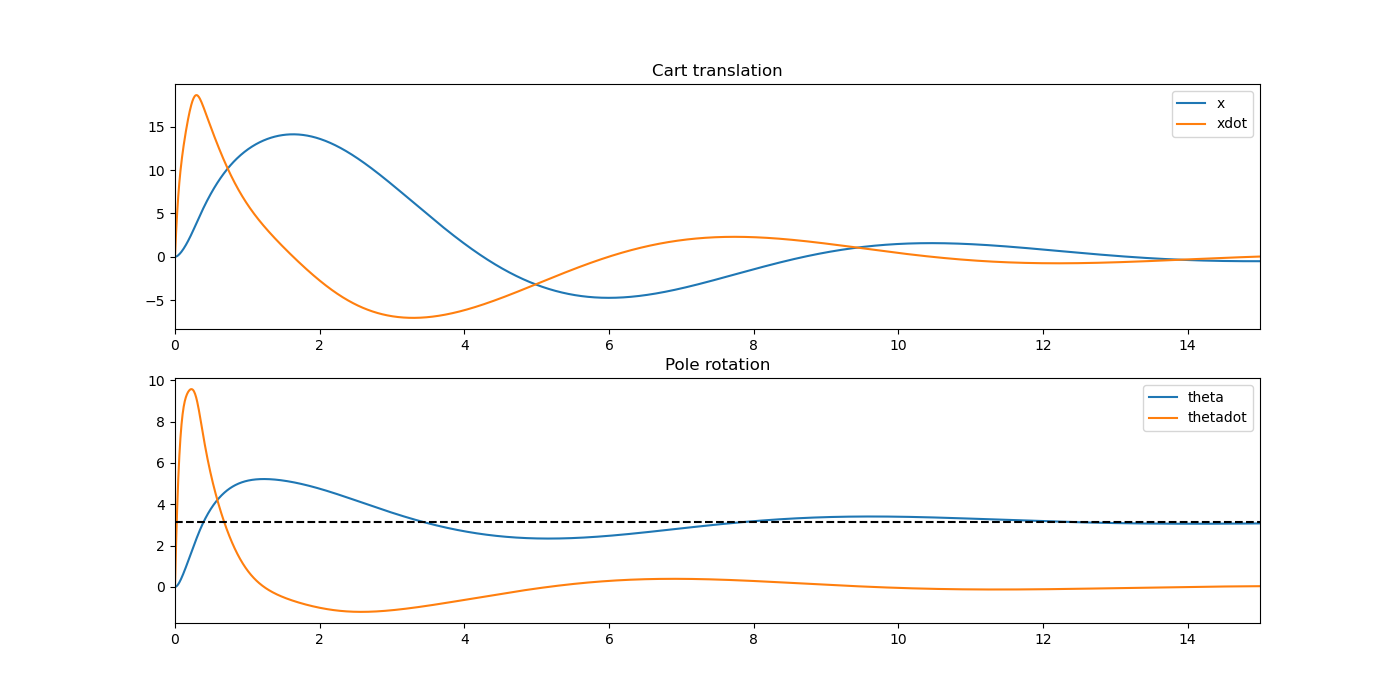
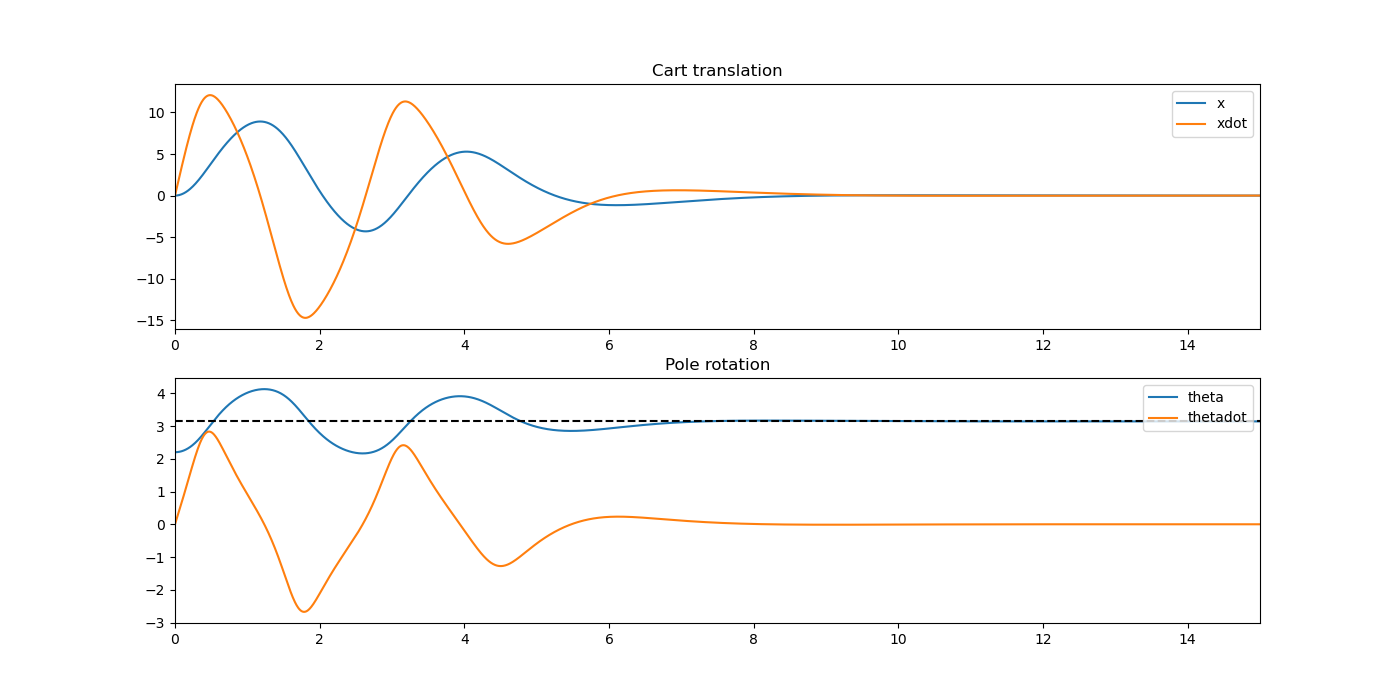
tut3-final

diff --git a/_pages/tut3.md b/_pages/tut3.md
@@ -5,9 +5,9 @@ categories: jekyll update
 mathjax: true
 permalink: /tut3/
 ---
-## Cart-Pole Modeling and LQR using MATLAB or Python
+## Cart-Pole with MATLAB and Python
 This post will share how to model a cart-pole and simulate the dynamics using `MATLAB`.
-The goal is to first do this in `MATLAB` and later to do the same steps using `Python` and also to do the animation using `Blender`.
+The goal is to first do this in `MATLAB` and later to do the same steps using `Python`.
 
 ### Mathematical Model
 The system consists of a frictionless cart and a pendulum fixed to the centroid of the cart body.   
@@ -55,31 +55,36 @@ m_2\ell^2\ddot{\theta} + m_2\ell\ddot{x}\cos(\theta) &= -m_2g\ell\sin(\theta)\en
 
 In matrix form:
 
-$$\begin{bmatrix}m_1+m_2&m_2\ell\cos(\theta)\\m_2\ell\cos(\theta)&m_2\ell^2\end{bmatrix}\begin{bmatrix}\ddot{x}\\\ddot{\theta}\end{bmatrix}=\begin{bmatrix}F\\0\end{bmatrix}+\begin{bmatrix}m_2\ell\dot{\theta}^2\sin(\theta)\\-m_2g\ell\sin(\theta)\end{bmatrix}$$
+$$\begin{bmatrix}m_1+m_2&m_2\ell\cos(\theta)\\m_2\ell\cos(\theta)&m_2\ell^2\end{bmatrix}\begin{bmatrix}\ddot{x}\\\ddot{\theta}\end{bmatrix}=\begin{bmatrix}F\\0\end{bmatrix}+\begin{bmatrix}m_2\ell\dot{\theta}^2\sin(\theta)\\-m_2g\ell\sin(\theta)\end{bmatrix}\hspace{1cm}\text{or}\hspace{1cm}\mathbf{M}\begin{bmatrix}\ddot{x}\\\ddot{\theta}\end{bmatrix}=\mathbf{u}+\mathbf{v}$$
 
-Finally, we want a system of the form $$\dot{\mathbf{x}}=\mathbf{f}(\mathbf{x},\mathbf{u})$$ where $$\mathbf{x}$$ is a state vector, $$\mathbf{f}$$ is some nonlinear vector function and $$\mathbf{u}$$ is the input for our system. In this regard, we let $$\mathbf{x}=\begin{bmatrix}x&\theta & \dot{x}&\dot{\theta}\end{bmatrix}^T$$ and $$\mathbf{u}=\begin{bmatrix}F&0\end{bmatrix}^T$$. The system can then be written as
+Finally, we want a system of the form $$\dot{\mathbf{x}}=\mathbf{f}(\mathbf{x},F)$$ where $$\mathbf{x}$$ is a state vector, $$\mathbf{f}$$ is some nonlinear vector function and $$F$$ is the force-input for our system. The system can then be written as
 
-$$\dot{\mathbf{x}}=\begin{bmatrix}\dot{x}\\\dot{\theta}\\\mathbf{M}^{-1}(\mathbf{u}+\mathbf{v})\end{bmatrix}$$
+$$\dot{\mathbf{x}}=\mathbf{f}(\mathbf{x},F)=\begin{bmatrix}\dot{x}\\\dot{\theta}\\\mathbf{M}^{-1}(\mathbf{u}+\mathbf{v})\end{bmatrix}, \hspace{1cm}\mathbf{x}=\begin{bmatrix}x\\\theta\\\dot{x}\\\dot{\theta}\end{bmatrix},\hspace{1cm}\mathbf{u}=\begin{bmatrix}F\\0\end{bmatrix}$$
 
 ### Linearization and State-Feedback
 To employ LQR in feedback control, we need a linear system $$\dot{\mathbf{x}}=\mathbf{A}\mathbf{x}+\mathbf{B}\mathbf{u}$$.
-We linearize about the unstable fixed point $$\mathbf{x}_e=\begin{bmatrix}x&\pi&0&0\end{bmatrix}^T$$ and $$\mathbf{u}_e=\mathbf{0}$$. 
-The matrices $$\mathbf{A}$$ and $$\mathbf{B}$$ can be determined analytically by
+We linearize about the unstable fixed point and denote the equilibrium points as $$\mathbf{x}_e$$ and $$F_e$$. 
+The matrices $$\mathbf{A}$$ and $$\mathbf{B}$$ can be determined analytically by evaluating the *Jacobian* at the fixed point:
 
-$$\mathbf{A}=\frac{\partial\mathbf{f}}{\partial\mathbf{x}}\Biggr\rvert_{\mathbf{x}=\mathbf{x}_e, \mathbf{u}=\mathbf{u}_e}, 
-\hspace{1cm}\mathbf{B}=\frac{\partial \mathbf{f}}{\partial\mathbf{u}}\Biggr\rvert_{\mathbf{x}=\mathbf{x}_e,\mathbf{u}=\mathbf{u}_e}$$
+$$\mathbf{A}=\frac{\partial\mathbf{f}}{\partial\mathbf{x}}\Biggr\rvert_{\mathbf{x}=\mathbf{x}_e, \ F=F_e}, 
+\hspace{1cm}\mathbf{B}=\frac{\partial \mathbf{f}}{\partial F}\Biggr\rvert_{\mathbf{x}=\mathbf{x}_e,\ F=F_e}, \hspace{1cm}
+\mathbf{x}_e=\begin{bmatrix}x\\\pi\\0\\0\end{bmatrix},\hspace{1cm}F_e=0$$
 
-However, this requires us to solve the matrix equation of motion algebraically for $$\ddot{x}$$ and $$\ddot{\theta}$$, typically using Cramer's rule.
-To avoid that we use the symbolic toolbox of MATLAB. The following section shows MATLAB code to simulate the nonlinear system.
-Also, we linearize the system using the `jacobian()` function of the symbolic toolbox in MATLAB, 
-hence finding the matrices $$\mathbf{A}$$ and $$\mathbf{B}$$ which are required for state-feedback control.
+Calculating the *Jacobian* requires us to first solve the matrix equation of motion algebraically for $$\ddot{x}$$ and $$\ddot{\theta}$$, typically using
+*Cramer's rule*. This is ok for this system, but for systems involving more than two state variables, hand-written calculations are errorprone and quickly
+become a mess. Therefore, we show how to use the symbolic toolbox of MATLAB to do the work for us. 
+
+In the following section, we linearize the system using the `jacobian()` function of the symbolic toolbox in MATLAB, 
+hence finding the matrices $$\mathbf{A}$$ and $$\mathbf{B}$$ which are required for LQR. We then use state-feedback control to stabilize the
+payload near the unstable fixed point.
+
 ### Equations of motion and Animation
 The following code-snippet shows how to specify the nonlinear equations of motion in a form that MATLAB's `ode` suite will accept the function.
 There are two functions in this snippet: one for the cart-pole model and one for animation. 
 **Note that you should place these in the bottom of the script**.
 {% highlight MATLAB %}
 %% Equations of motion in MATLAB ODE's notation
-function xxdot = model(t, xx, u, params)
+function xxdot = model(t, xx, F, params)
     % States
     x = xx(1);
     theta = xx(2);
@@ -92,6 +97,7 @@ function xxdot = model(t, xx, u, params)
     g = params.g;
     % Model
     M = [m1 + m2, m2*L*cos(theta); m2*L*cos(theta), m2*L^2];
+    u = [F; 0];
     v = [m2*thetadot^2*sin(theta); -m2*g*L*sin(theta)];
     xxdot = [xdot; thetadot; M \ (u + v)];
 end
@@ -118,24 +124,25 @@ params.m1 = 5;
 params.m2 = 2;
 params.L = 2;
 params.g = 9.81;
-% Input vector (e.g. feedback control vector)
-u = [0;0];
+% Cart force
+F = 0;
 % Simulation settings
 tspan = linspace(0,15,5000);
 xx0 = [0; pi/2; 0; 0];
-[t, xx] = ode45(@(t,xx) model(t, xx, u, params), tspan, xx0);
+[t, xx] = ode45(@(t,xx) model(t, xx, F, params), tspan, xx0);
 
 %% Plot results and animate
 fig1 = figure(1);
+fig1.Position = [210, 230, 1080, 540]
 subplot(211);
-p1 = plot(t,xx(:, [1,3]));
+p1 = plotyy(t, xx(:, 1), t, xx(:, 3));
 title('Cart translation');
 legend('x', 'xdot');
 subplot(212);
-p2 = plot(t, xx(:, [2,4]));
+p2 = plotyy(t, xx(:, 2), t, xx(:, 4));
 title('Pole rotation');
 legend('theta', 'thetadot');
-% Animate
+% Animation
 fig3 = figure(3);
 for i = 1:numel(t)
     if mod(i,10) == 0
@@ -158,33 +165,40 @@ Recall that our problem is to apply a force on the cart such that the cart moves
 xsym = sym('x', [4,1]);
 Fsym = sym('F');
 tsym = sym('t');
-usym = [Fsym; 0];
-A = jacobian(model(tsym, xsym, usym, params), xsym);
-B = jacobian(model(tsym, xsym, usym, params), Fsym);
+A = jacobian(model(tsym, xsym, Fsym, params), xsym);
+B = jacobian(model(tsym, xsym, Fsym, params), Fsym);
 A = double(subs(A, xsym, [xsym(1); pi; 0; 0]));
 B = double(subs(B, xsym, [xsym(1); pi; 0; 0]));
-clear xsym Fsym tsym usym
+clear xsym Fsym tsym
 
 %% State feedback control with LQR
-Q = diag([500,50,1,1]);
-R = 0.1;
+Q = diag([100,100,1,1]);
+R = 1;
 K = lqr(A,B,Q,R);
 % Stabilize about the (unstable) fixed-point [0; pi; 0; 0]
-u = @(xx) - K * (xx - [0; pi; 0; 0]); 
-xx0 = [0;0;0;0];
-[t,xx] = ode45(@(t,xx) model(t, xx, u(xx), params), tspan, xx0);
+F = @(xx) - K * (xx - [0; pi; 0; 0]); 
+xx0 = [0, 2.2, 0, 0].';
+[t,xx] = ode45(@(t,xx) model(t, xx, F(xx), params), tspan, xx0);
 
 %% Plot results and animate
 fig2 = figure(2);
-subplot(211);
-p1 = plotyy(t,xx(:, 1), t, xx(:,3));
-title('Cart translation');
-legend('x', 'xdot');
-subplot(212);
-p2 = plotyy(t, xx(:,2), t, xx(:,4));
-title('Pole rotation');
-legend('theta', 'thetadot');
+subplot(221);
+p1 = plot(t,xx(:, 1));
+axis tight
+title('Cart position');
+subplot(223);
+p2 = plot(t, xx(:, 3));
+axis tight
+title('Cart velocity')
+subplot(222)
+p3 = plot(t, xx(:,2));
 line([0,15],[pi,pi],'linestyle','--','color','black')
+axis tight
+title('Pole angle');
+subplot(224)
+p4 = plot(t, xx(:,4))
+axis tight
+title('Pole velocity')
 % Animate
 fig4 = figure(4);
 for i = 1:numel(t)
@@ -198,13 +212,12 @@ for i = 1:numel(t)
     end
 end
 
-
 {% endhighlight %}
 
 ![cart-pole-plot2]({{site.baseurl}}/images/cart-pole-plot2.jpg)
 Recall that the system is underactuated. I.e. can only reach the uncontrollable state $$\theta$$ indirectly via the cart-force $$F$$.
 The cart accelerates to the right, overshooting the desired payload angle, and comes back to stabilize it at $$\theta=\pi$$ near the desired cart-position.
-Note that the figures above have two vertical axes, with position along the left axis and velocity along the right.
+The figure with the pendulum angle includes a dashed line showing $$\pi$$.
 
 ### Python Code
 This section shows `Python` code to do the same steps. In the first part of the code, we import required libraries and define three functions:
@@ -229,17 +242,18 @@ import control.matlab as cm
 
 plt.close('all')
 
-def openLoop(xx, t,  u, m1, m2, L, g):
+def openLoop(xx, t, F, m1, m2, L, g):
     x,theta,xdot,thetadot = xx
     M = np.array([[m1+m2, m2*L*np.cos(theta)],[m2*L*np.cos(theta), m2*L**2]])
+    u = np.array([[F],[0]])
     v = np.array([[m2*thetadot**2*np.sin(theta)],[-m2*g*L*np.sin(theta)]])
     temp = np.linalg.inv(M) @ (u + v)
-    xxdot = [xdot, thetadot, temp[0,0], temp[1,0]]
-    return xxdot
+    return [xdot, thetadot, temp[0,0], temp[1,0]]
 
-def modelSym(xx, t, u, m1, m2, L, g):
+def modelSym(xx, t, F, m1, m2, L, g):
     x,theta,xdot,thetadot = xx
     M = sm.Matrix([[m1+m2, m2*L*sm.cos(theta)], [m2*L*sm.cos(theta), m2*L**2]])
+    u = sm.Matrix([F,0])
     v = sm.Matrix([m2*thetadot**2*sm.sin(theta), -m2*g*L*sm.sin(theta)])
     temp = M.inv() @ (u+v)
     return sm.Matrix([xdot, thetadot, temp[0,0], temp[1,0]])
@@ -248,20 +262,20 @@ def closedLoop(xx, t, m1, m2, L, g):
     x,theta,xdot,thetadot = xx
     M = np.array([[m1+m2, m2*L*np.cos(theta)],[m2*L*np.cos(theta), m2*L**2]])
     v = np.array([[m2*thetadot**2*np.sin(theta)],[-m2*g*L*np.sin(theta)]])
-    u = - (K @ (xx - [0, np.pi, 0, 0])).T
+    F = -(K @ (xx - [0, np.pi, 0, 0]))[0,0]
+    u = np.array([[F],[0]])
     temp = np.linalg.inv(M) @ (u + v)
-    xxdot = [xdot, thetadot, temp[0,0], temp[1,0]]
-    return xxdot
+    return [xdot, thetadot, temp[0,0], temp[1,0]]
 {% endhighlight %}
 
 ### Open-loop testing
 To test the model in open-loop, we do the same as before i.e. we drop the pendulum from a horizontal position $$\theta=\pi/2$$
 {% highlight python %}
 #%% Open-Loop Simulation
-u = np.array([[0,0]]).T
+F = 0
 xx0 = [0, np.pi/2, 0, 0]
 t = np.linspace(0,15,2000)
-xx = odeint(openLoop, xx0, t, args=(u,5,2,2,9.81))
+xx = odeint(openLoop, xx0, t, args=(F,5,2,2,9.81))
 
 #%% Plot
 fig, (ax11, ax12) = plt.subplots(nrows=2, ncols=1, figsize=[14,7])
@@ -276,7 +290,8 @@ ax11.legend(['x', 'xdot'], loc='upper right')
 ax12.legend(['theta', 'thetadot'], loc='upper right')
 {% endhighlight %}
 ![cart-pole-plot1]({{site.baseurl}}/images/cart-pole-plot1.png)
-Then we do the linearization required for LQR and simulate the closed-loop model
+### Linearization and Closed-Loop Simulation
+Then we do the linearization required for LQR using the `jacobian()` function from *Sympy* and find the optimal feedback gain $$\mathbf{K}$$ using `lqr()` from the *Control-systems* library, and finally simulate the closed-loop model using `odeint()` from *Scipy*.
 {% highlight python %}
 #%% Implement LQR
 x_s = sm.Symbol('x')
@@ -287,9 +302,7 @@ t_s = sm.Symbol('t')
 F_s = sm.Symbol('F')
 
 xx_s = sm.Matrix([x_s, theta_s, xdot_s, thetadot_s])
-u_s = sm.Matrix([F_s, sm.Symbol('0')])
-
-xxdot_s = modelSym(xx_s, t_s, u_s, 5, 2, 2, 9.81)
+xxdot_s = modelSym(xx_s, t_s, F_s, 5, 2, 2, 9.81)
 A = xxdot_s.jacobian(xx_s)
 B = xxdot_s.jacobian([F_s])
 
@@ -298,13 +311,12 @@ B = sm.lambdify((x_s, theta_s, xdot_s, thetadot_s, F_s), B, modules='numpy')
 A = A(0, np.pi, 0, 0, 0)
 B = B(0, np.pi, 0, 0, 0)
 
-
-Q = np.array([[500,0,0,0],[0,3,0,0],[0,0,1,0],[0,0,0,1]])
-R = 0.1
+Q = np.array([[100,0,0,0],[0,100,0,0],[0,0,1,0],[0,0,0,1]])
+R = 1
 K = cm.lqr(A,B,Q,R)[0]
 
-#%% Close-loop Simulation
-xx0 = [0, 0, 0, 0]
+#%% Closed-loop Simulation
+xx0 = [0, 2.2, 0, 0]
 xx = odeint(closedLoop, xx0, t, args=(5,2,2,9.81))
 
 fig2, (ax21, ax22) = plt.subplots(nrows=2, ncols=1, figsize=[14,7])
@@ -320,6 +332,5 @@ ax22.legend(['theta', 'thetadot'], loc='upper right')
 
 ax22.plot([0,15], [np.pi, np.pi], 'k--')
 
-np.savetxt('data.txt', xx, delimiter=',')
 {% endhighlight %}
 ![cart-pole-plot2]({{site.baseurl}}/images/cart-pole-plot2.png)

diff --git a/_pages/note.md b/_pages/note.md
@@ -1,6 +1,6 @@
 ---
 layout: page
-title:  "note"
+title:  ""
 categories: jekyll update
 permalink: /note/
 mathjax: true
